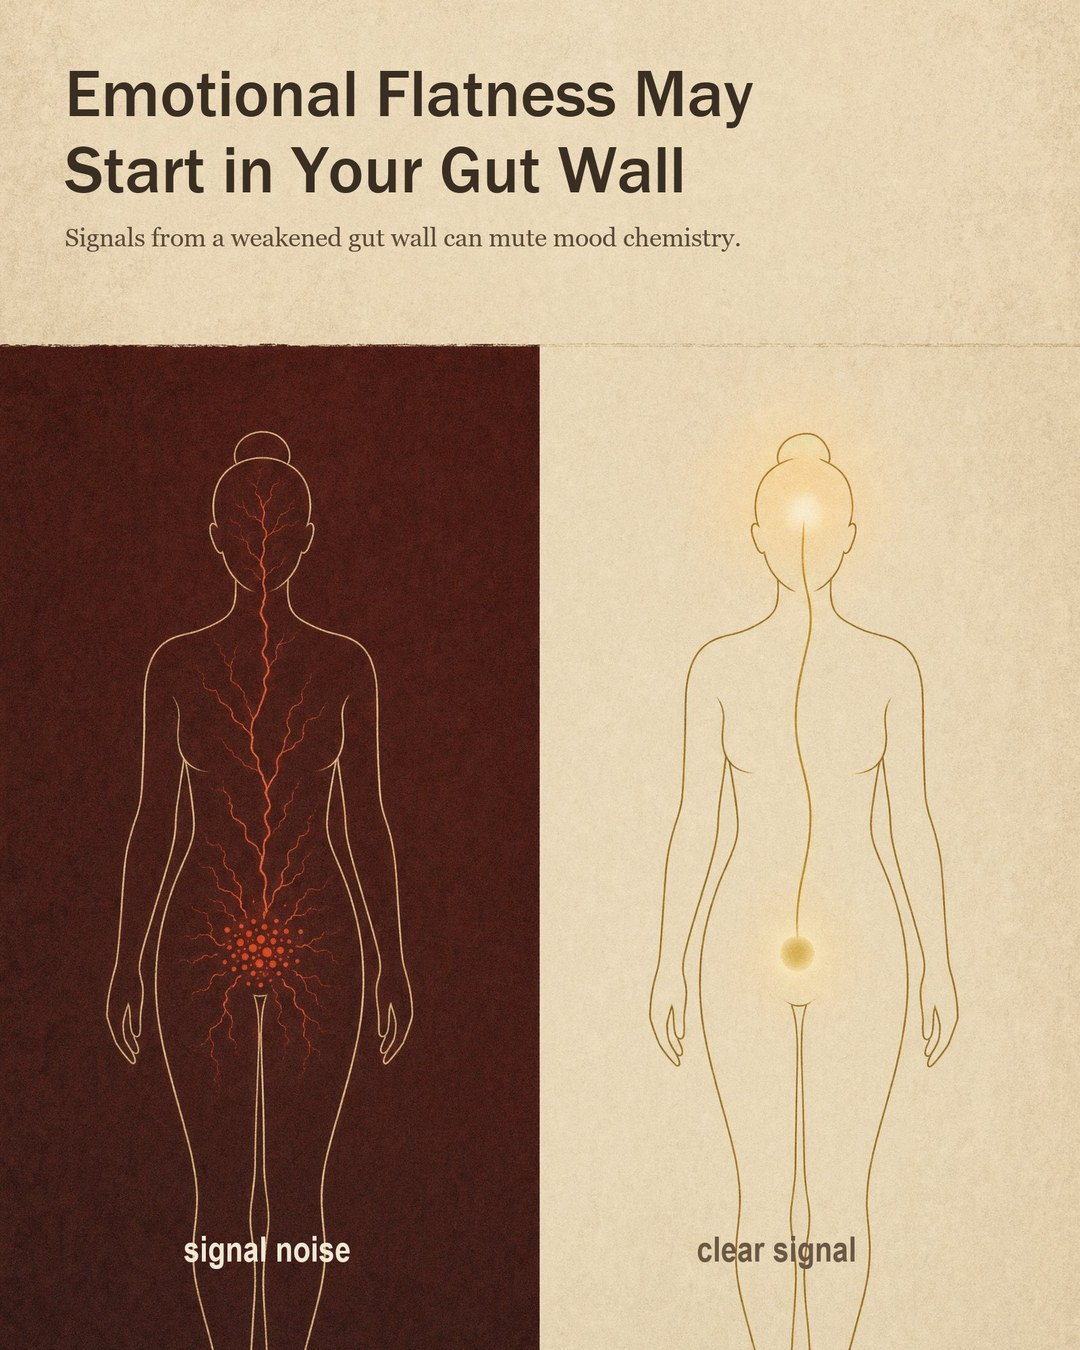
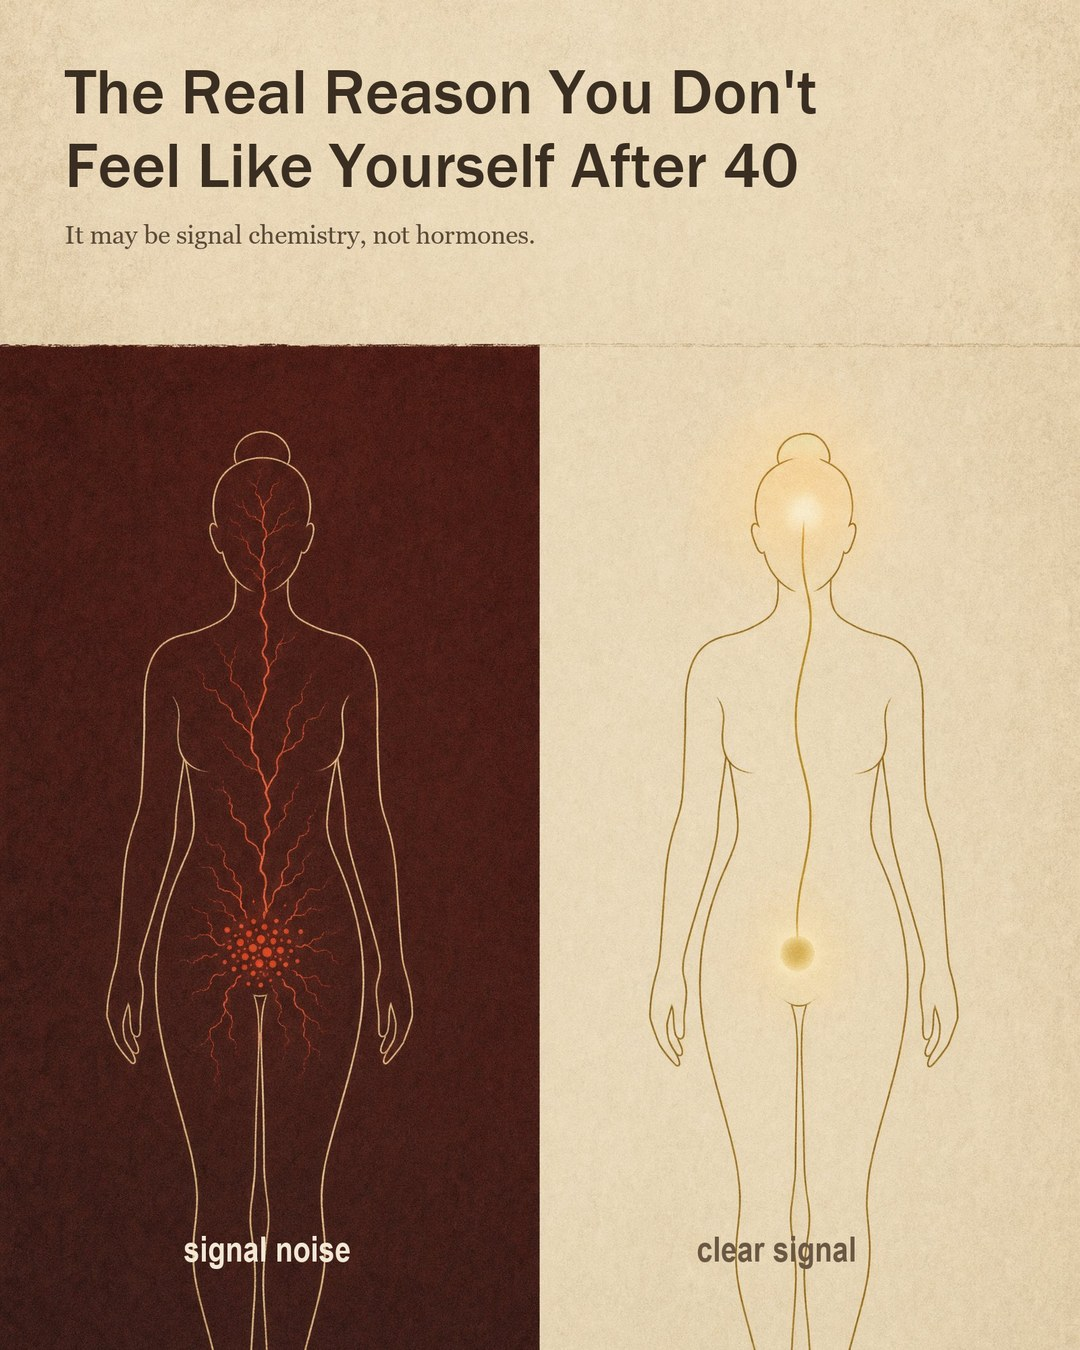
fix(sk-bold): mechanism ads v2 — news-headline register, masthead removed
Operator notes: on-image copy must read like a news headline (short,
punchy, curiosity + authority), no second-person storytelling. Rewrote
decks on A-C and E-I; adA drops on-image postbiotic pitch; adC becomes
'The Real Reason You Don't Feel Like Yourself After 40'. 'inside health
report' kicker swapped for generic 'research brief' (fake-outlet legal
risk). Register rule logged in copy-notes + approved-log.

Changed region(s): [[0.0611, 0.0311, 0.7639, 0.1867]]

diff --git a/clients/secondkind-bold/static-ads/mechanism-infographic-2026-07/copy-notes.md b/clients/secondkind-bold/static-ads/mechanism-infographic-2026-07/copy-notes.md
@@ -8,12 +8,23 @@ reference literally says "HEAL NATURALLY", which SecondKind cannot say). Headlin
 Case (brand bans ALL CAPS), Franklin Gothic for the news voice. All text composited via
 scripts/ad_text_overlay.py; specs re-editable. 4:5 (1080x1350).
 
+## Copy register rule (operator note, 2026-07-08)
+
+On-image copy must read like a NEWS HEADLINE: short, punchy, curiosity-gap, optional
+authority attribution ("Doctors are finding..."). NO second-person storytelling
+("You tried X. You did Y.") anywhere on the image; it reads as an ad. Model lines the
+operator approved: "The real reason you feel not yourself after 40" and especially
+"It's not perimenopause. Doctors are finding a different root cause." Structure = one
+headline + at most one news-style deck line + diagram labels + optional figure caption.
+No publication mastheads on creative (legal/policy risk); generic genre slugs like
+"research brief" are OK.
+
 | Ad | Headline | Visual | Reference it maps to |
 |---|---|---|---|
-| A | Brain Fog Might Be a Gut Signal Issue | vintage textbook gut-wall cross-section, red particles slipping the lining, nerve to brain; labels: gut lining / signal molecules / to the brain | "Fibromyalgia pain might be a gut wall issue" |
+| A | Midlife Brain Fog May Start Here, Not in the Brain | vintage textbook gut-wall cross-section, red particles slipping the lining, nerve to brain; labels: gut lining / signal molecules / to the brain | "Fibromyalgia pain might be a gut wall issue" |
 | B | 90% of Your Serotonin Is Made in Your Gut, Not Your Brain | sepia pencil before/after women, fog scribble vs clear; label "it starts here" at gut dot; captions fog,flatness / steady,clear | the sketch before/after pair |
-| C | Emotional Flatness May Start in Your Gut Wall | two-tone oxblood/cream silhouettes, red signal noise vs clean gold gut-to-head line; captions signal noise / clear signal | "Inflammation amplifying your pain starts in your gut wall" |
-| D | The 'Second Brain' Discovery Changing How We See Midlife Mood | dark macro gut-cavern with golden neuron path, "inside health report" kicker | "Arteries could heal naturally" dark news cover |
+| C | The Real Reason You Don't Feel Like Yourself After 40 | two-tone oxblood/cream silhouettes, red signal noise vs clean gold gut-to-head line; captions signal noise / clear signal | "Inflammation amplifying your pain starts in your gut wall" |
+| D | The 'Second Brain' Discovery Changing How We See Midlife Mood | dark macro gut-cavern with golden neuron path, "research brief" kicker | "Arteries could heal naturally" dark news cover |
 
 ## Wave 2 (adE-adI): own-audience pain points
 
@@ -31,17 +42,22 @@ palette, and news-genre typography as wave 1.
 
 ## Suggested primary text (shared base, tune per ad)
 
-The fog, the flatness, the 2pm wall. You blamed age.
-New research points somewhere else: the gut wall, where 90% of your serotonin is made.
-Read why thousands of women over 40 are looking at their gut first.
+Same register as on-image: headline-y curiosity, no second-person storytelling.
 
-Wave-2 per-ad first lines (swap into the base):
+The fog, the flatness, the 2pm wall. New research traces all three to the gut wall,
+where 90% of serotonin is made. The full report explains what doctors are finding.
 
-- E: You went to bed at 9. You woke up tired anyway.
-- F: Coffee number three and the wall still won.
-- G: That hum of dread with nothing behind it has a mechanism.
-- H: You took the capsules for months. You felt nothing. There may be a reason.
-- I: You snapped at someone you love and did not recognize yourself.
+Per-ad first lines (swap into the base):
+
+- A: Midlife brain fog may not start in the brain at all.
+- B: 90% of serotonin is made in the gut. Researchers say it may explain the midlife dip.
+- C: It may be signal chemistry, not hormones.
+- D: The 'second brain' discovery is changing how researchers see midlife mood.
+- E: Doctors are looking below the brain for the kind of tired sleep can't fix.
+- F: The afternoon crash may be a fuel problem, not a coffee problem.
+- G: Anxiety with no reason behind it may be a misfired gut signal.
+- H: Billions of CFUs and no felt difference. The route may be the reason.
+- I: Sudden mood swings may be chemistry, not character.
 
 ## Link headline options
 

diff --git a/clients/secondkind-bold/copy/approved-log.md b/clients/secondkind-bold/copy/approved-log.md
@@ -40,6 +40,8 @@
 | 2026-06-11 | **POV short, corrected spec** (meme-flex line register, candid-motion visuals, messaging test bed) | APPROVED | "This looks good"; operator supplied source transcript + examples |
 | 2026-06-11 | **The approved caption structure** (🤦♀ confession → "turns out" → 💡 vindication turn → mechanism → ✅ postbiotics → offer close) | APPROVED | "Here's the style of copy that we typically like" (operator-provided reference) |
 | 2026-06-10 | Culture-pulse system (4 layers, surface tiers, promotion ladder) | APPROVED | "This looks good" → propagated to repo + skills + handoff |
+| 2026-07-08 | **Mechanism/advertorial ad copy = news-headline register** | APPROVED-DIRECTION | "Short and punchy, essentially like a headline in a news article." Model lines: "The real reason you feel not yourself after 40" and "It's not perimenopause. Doctors are finding a different root cause." ("I particularly like the perimenopause one. It does a good job of piquing curiosity.") Structure: headline + max one deck line + diagram labels. Lives in `../static-ads/mechanism-infographic-2026-07/copy-notes.md` |
+| 2026-07-08 | **No publication mastheads on ad creative** ("inside health report" kicker) | REJECTED | Operator worried about legal backlash from fake-outlet chrome. News GENRE styling OK; publication IDENTITY not. Swapped to generic "research brief" slug |
 
 ## Angles & territories
 
@@ -64,6 +66,7 @@
 
 | Date | Item | Why |
 |---|---|---|
+| 2026-07-08 | Second-person storytelling sub-copy on mechanism ads ("You went to bed early again. The wall still came." / "You fixed the coffee. You fixed the sleep.") | "Sounds very ad-y." On-image copy must stay in news-headline register |
 | 2026-07-01 | First punchy header batch ("Feel like yourself again." / "Not gone. Under-supplied." / "You, before the bloat.") | "Don't love any of these. It just is flat. Needs to be bolder." |
 | 2026-07-01 | Long, she-coded hero subs | "Very specific... 'she'... kind of long. I want it more punchy." |
 | 2026-06-11 | Long confessional monologue as "love letter" | Wrong format; superseded by operator examples |
